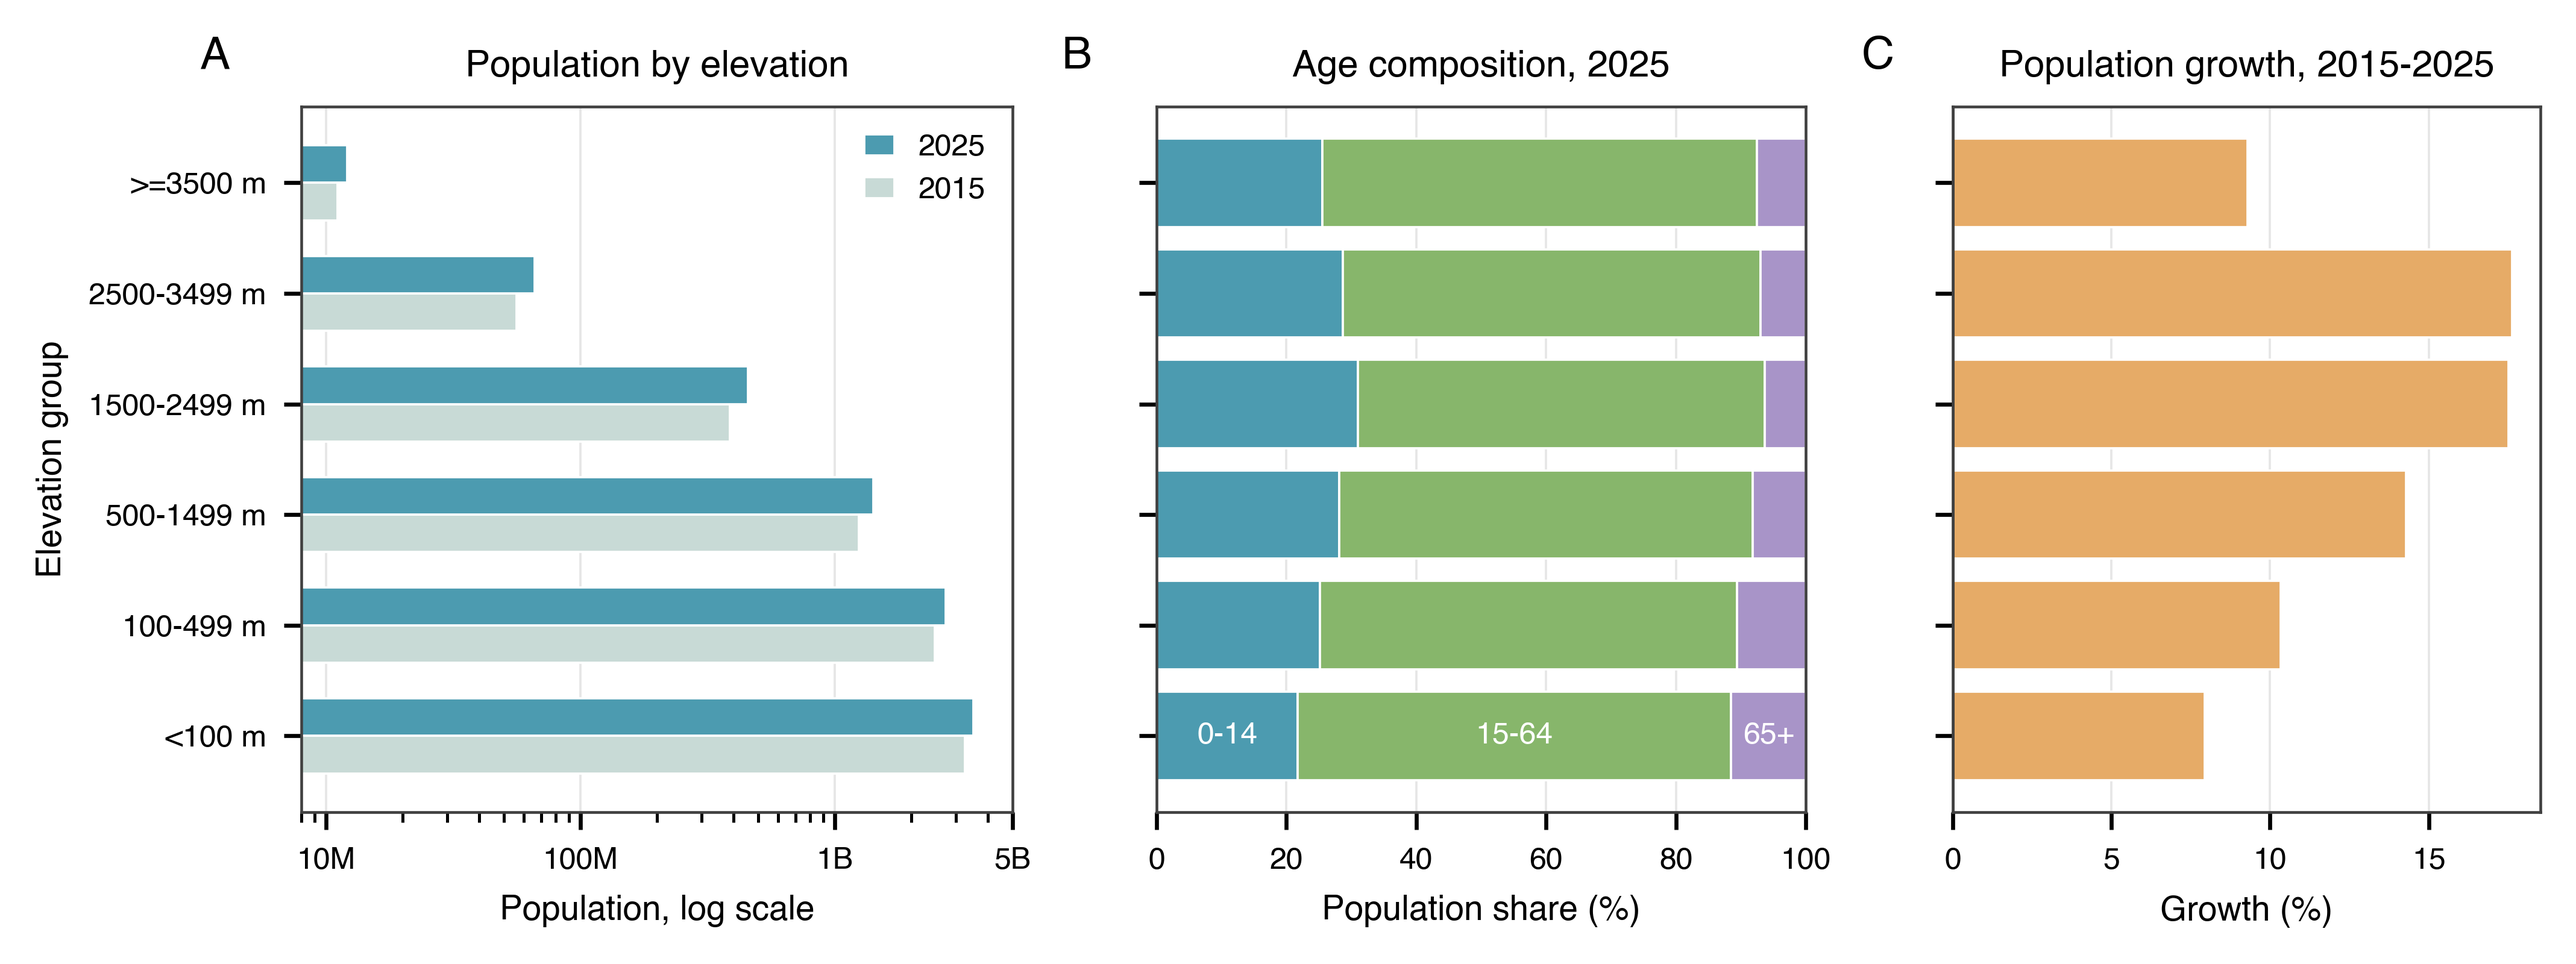
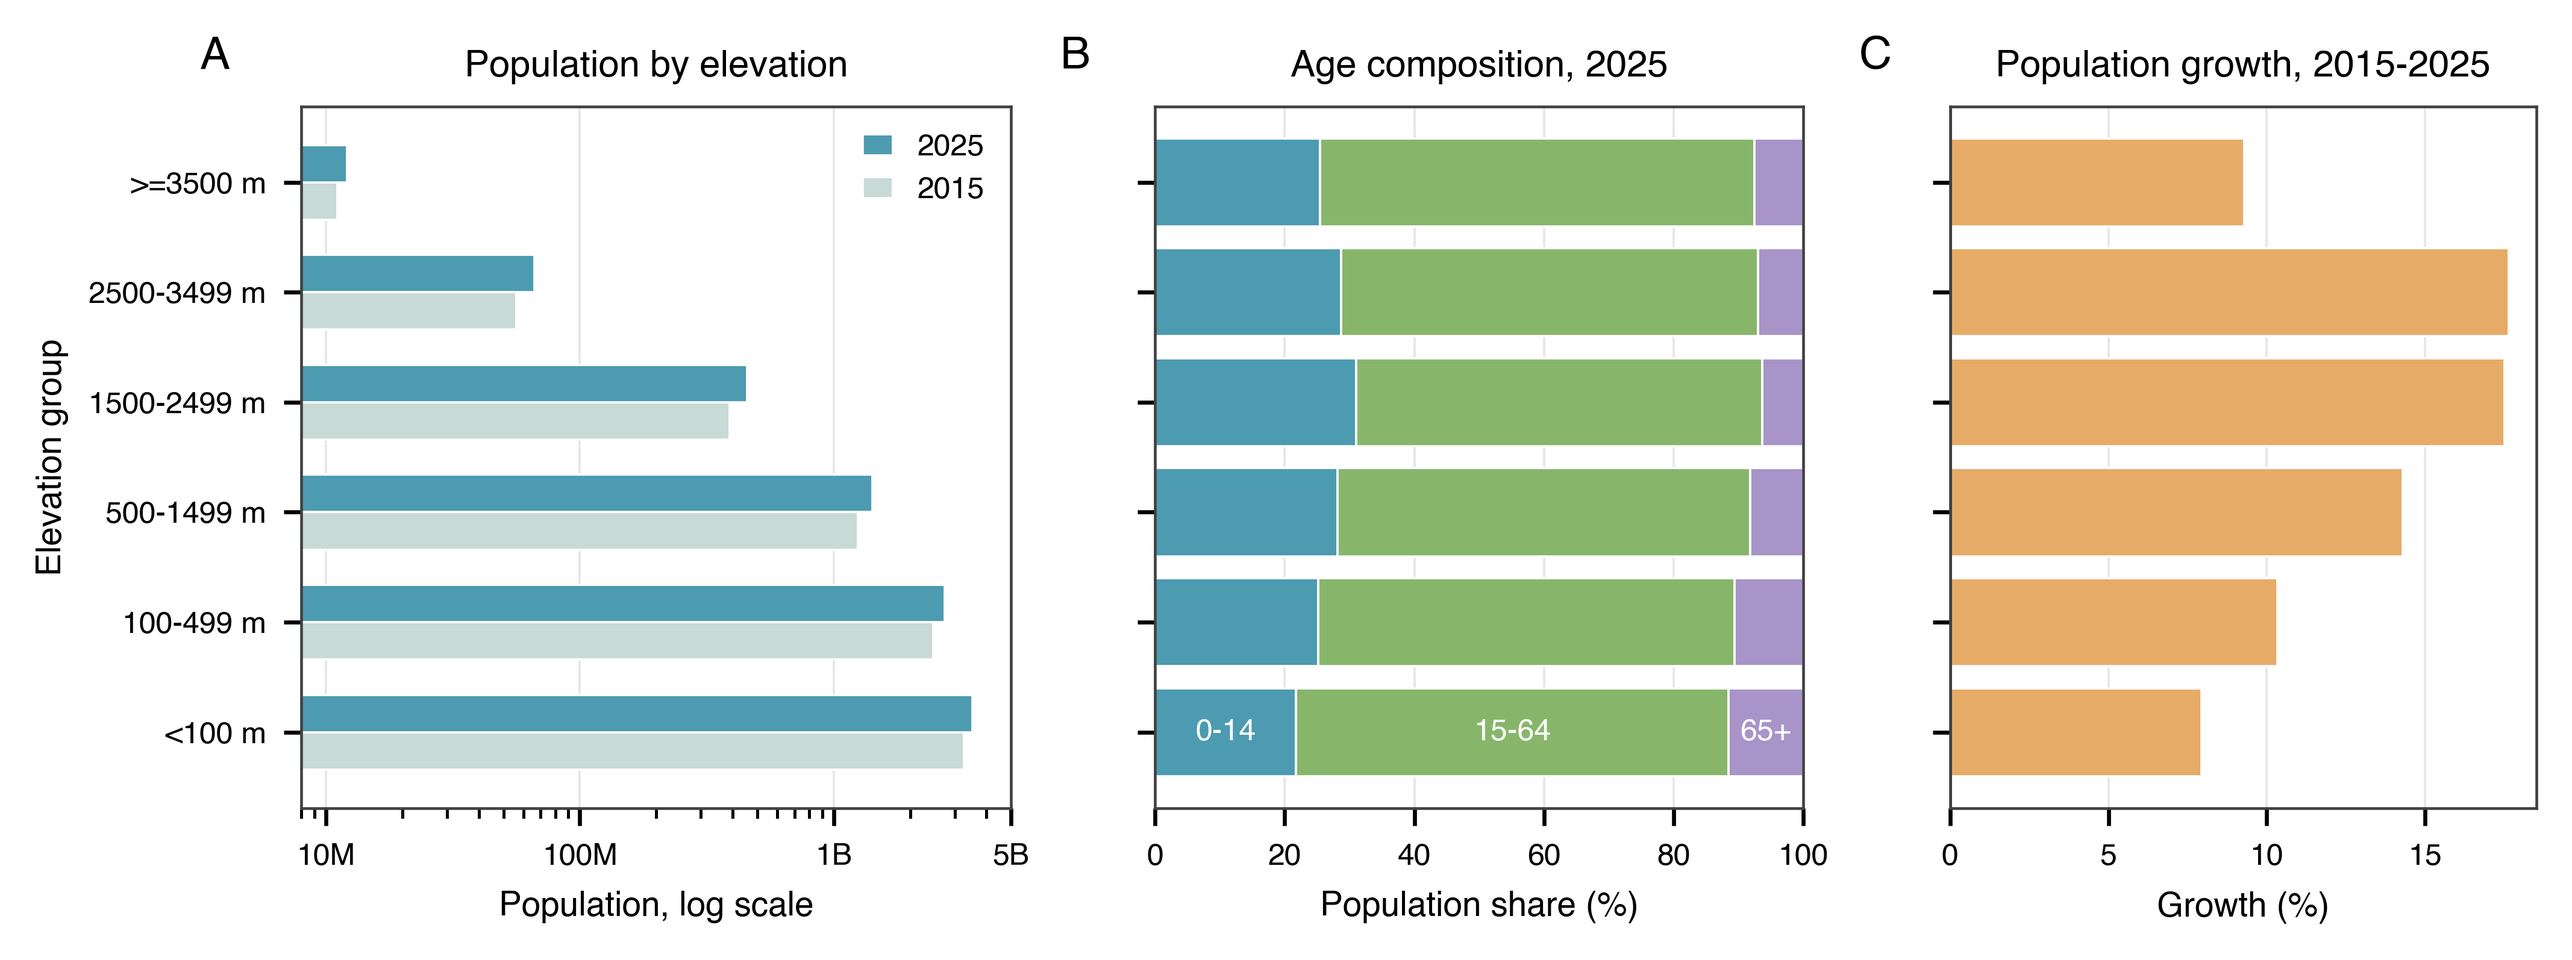
readme tweaks and data structure reorganization

diff --git a/processing/README.md b/processing/README.md
@@ -1,21 +1,29 @@
 # Processing Workflow
 
-These scripts document the upstream workflow used to build Dataset S1. They are intentionally lightweight and are not a packaged processing system.
+The files in this directory are provenance scripts for the paper, not a complete production pipeline. They record the data-preparation steps used to make Dataset S1 and keep the manuscript repository understandable without carrying the large gridded workflow.
 
-Full processing requires large public source datasets that are not included in this repository:
+The full extraction was developed in the archived/source processing repository and requires large public source datasets that are not included here:
 
 - WorldPop Global 2 annual age-sex population rasters.
 - GMTED2010 mean elevation at 30 arc-second resolution.
 - GHS-SMOD R2023A settlement-class rasters.
 - Country boundary layers used in the full source workflow.
 
-The figure notebook does not need these inputs. It reads `data/dataset_s1_hypsographic_demography.csv`.
+The figure notebook does not need those files. It reads `data/dataset_s1_hypsographic_demography.csv` and reproduces the two manuscript figures directly.
 
-## Order
+## What the scripts are
 
-1. `01_prepare_static_layers.py`: align elevation to the WorldPop grid and assign elevation bands.
-2. `02_extract_population_by_grid.py`: summarize WorldPop age-sex population by aligned grid attributes.
-3. `03_prepare_settlement_attribution.py`: prepare GHS-SMOD settlement classes for static_2025 and dynamic attribution.
-4. `04_build_analysis_tables.py`: aggregate the aligned grid summaries into Dataset S1.
+These scripts are deliberately minimal. They are meant to document the sequence of operations, key definitions, and analysis choices for this paper. They should be read as executable notes or pseudocode-style provenance, not as a turnkey geospatial processing system.
 
-The complete production pipeline lives in the full processing source repository. These scripts are a readable record of the parts used for this paper only.
+## Workflow order
+
+1. `01_prepare_static_layers.py`: documents alignment of GMTED2010 elevation to the WorldPop grid, meter rounding, native elevation bands, and the six manuscript elevation groups.
+2. `02_extract_population_by_grid.py`: documents extraction of WorldPop annual age-sex population by aligned grid attributes and aggregation to `0-14`, `15-64`, and `65+`.
+3. `03_prepare_settlement_attribution.py`: documents GHS-SMOD alignment, the six settlement classes, static_2025 attribution for the main figures, and dynamic attribution for the diagnostic comparison.
+4. `04_build_analysis_tables.py`: checks the materialized Dataset S1 and summarizes the logical tables used by the reproduction notebook.
+
+## Why this is lightweight
+
+The manuscript figures use already aggregated analysis tables. Re-running the full raster workflow would require hundreds of source rasters, grid templates, and intermediate files that are too large for this repository. Keeping only the compact Dataset S1 plus these provenance scripts makes figure reproduction simple while still documenting how the analysis-ready tables were built.
+
+For full production reruns, start from the archived/source processing repository and the raw WorldPop, GMTED2010, and GHS-SMOD inputs listed in `config_notes.md`.

diff --git a/data/README.md b/data/README.md
@@ -9,3 +9,22 @@ Rows with `table_name = figure2_elevation_settlement` support Figure 2: 2025 pop
 Rows with `table_name = dynamic_static_growth_comparison` support the attribution sensitivity diagnostic. Dynamic attribution allows classes to vary by year. Static_2025 attribution holds 2025 elevation and settlement classes fixed across the 2015-2025 interval and is the main specification for the manuscript figures.
 
 The 2015-2025 values are modeled gridded population change from the input population products. They are not direct observations of births, deaths, or migration.
+
+## Columns
+
+| Column | Description | Units | Allowed values / notes |
+|---|---|---|---|
+| `table_name` | Logical table within Dataset S1. | text | `figure1_elevation_summary`; `figure2_elevation_settlement`; `dynamic_static_growth_comparison` |
+| `attribution_scenario` | Spatial attribution used for the row. | text | `static_2025`, `dynamic`, or `dynamic_minus_static_2025` |
+| `year` | Calendar year for annual quantities. | year | Blank for interval metrics. |
+| `interval` | Change interval for change metrics. | text | `2015-2025` where applicable. |
+| `elevation_group` | Broad elevation group used in the manuscript figures. | text | `<100 m`; `100-499 m`; `500-1499 m`; `1500-2499 m`; `2500-3499 m`; `>=3500 m` |
+| `elevation_group_order` | Plot order for elevation groups, low to high. | integer | 1 to 6 |
+| `settlement_class` | GHS-SMOD settlement class after light grouping. | text | Blank for elevation-only rows; otherwise final six settlement classes. |
+| `settlement_class_order` | Plot order for settlement classes. | integer | 1 to 6; blank for elevation-only rows. |
+| `age_group` | Broad age group. | text | `0-14`, `15-64`, `65+`, or blank. |
+| `metric` | Measured quantity. | text | `population`, `population_share`, `population_growth`, `mean_age_approx`, `growth_difference`, `population_denominator` |
+| `value` | Metric value. | numeric | Interpret using `unit`. |
+| `unit` | Unit for value. | text | `people`, `percent`, `years`, `percentage points` |
+| `notes` | Interpretive or provenance notes. | text | `static_2025` means 2025 classes held fixed for change summaries. |
+

diff --git a/README.md b/README.md
@@ -1,5 +1,8 @@
 # Hypsographic Demography: Age and Change in Population by Altitude
 
+[![License](https://img.shields.io/badge/license-MIT%20%2B%20CC%20BY%204.0-blue.svg)](LICENSE.md)
+[![Citation](https://img.shields.io/badge/citation-CITATION.cff-green.svg)](CITATION.cff)
+
 This repository supports the manuscript **"Hypsographic Demography: Age and Change in Population by Altitude."**
 
 It contains the analysis-ready data used to generate the two main figures, a notebook to reproduce those figures, and lightweight processing scripts documenting how the analysis tables were created from public gridded population, elevation, and settlement datasets.

diff --git a/outputs/repo_cleanup_log.md b/outputs/repo_cleanup_log.md
@@ -4,7 +4,7 @@ This repository was reduced to the materials needed for the PNAS-style hypsograp
 
 Kept:
 
-- Dataset S1 and dictionary in `data/`.
+- Dataset S1 in `data/`, with column definitions documented in `data/README.md`.
 - The final figure reproduction notebook in `notebooks/01_reproduce_figures.ipynb`.
 - Final PNG/PDF figures in `outputs/figures/`.
 - Final figure and manuscript-value tables in `outputs/tables/`.
